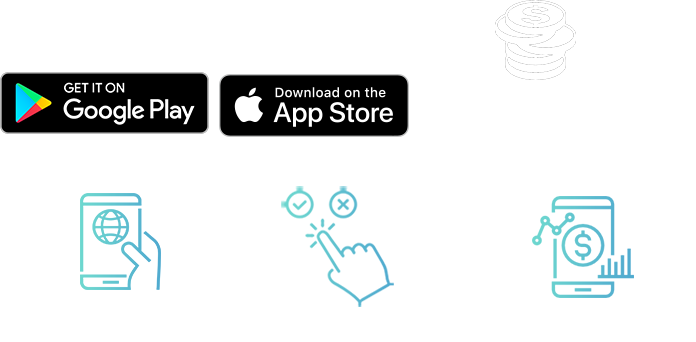
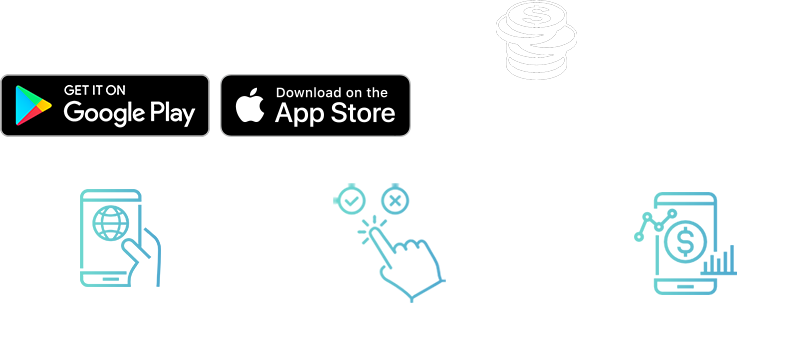
bull comm.png

diff --git a/10-work/210210-bullbull/html-bullbull/dist/css/comm.css b/10-work/210210-bullbull/html-bullbull/dist/css/comm.css
@@ -139,7 +139,8 @@ input[type=password] {
 .img_g {
   display: inline-block;
   overflow: hidden;
-  background: url(../../images/comm/img-comm.png) no-repeat;
+  background-image: url(../../images/comm.png);
+  background-repeat: no-repeat;
   vertical-align: top;
 }
 
@@ -226,14 +227,50 @@ body {
 .container {
   position: relative;
   max-width: 820px;
+  margin: 0 auto;
   padding: 76px 0 120px;
 }
 
+.wrap-tit h2 {
+  font-size: 1.625em;
+  color: #fff;
+}
+
+.wrap-tit h2::after {
+  content: '';
+  display: block;
+  width: 35px;
+  height: 3px;
+  margin: 58px 0 22px;
+  background: #fff;
+}
+
+.wrap-tit p {
+  color: #fff;
+}
+
 .btn-g {
+  display: inline-block;
   height: 63px;
+  padding: 8px 13px;
+  margin-top: 40px;
   background: #000;
   border: 1px solid #666;
-  border-radius: 20px;
+  border-radius: 8px;
+}
+
+.btn-g span {
+  width: 180px;
+  height: 43px;
+  text-indent: -9999px;
+}
+
+.btn-g.btn-google span {
+  background-position: -15px -82px;
+}
+
+.btn-g.btn-apple span {
+  background-position: -235px -83px;
 }
 
 .jumbotron-intro {
@@ -278,11 +315,10 @@ body {
 }
 
 .jumbotron-intro .col-left h1 {
-  display: block;
   width: 365px;
   height: 72px;
   margin: 27px 0 39px;
-  background: url(../../images/comm.png) 0 0 no-repeat;
+  background-position: 0 0;
   text-indent: -9999px;
 }
 
@@ -293,53 +329,5 @@ body {
 
 .sec-how {
   background: #323a47;
-}
-
-.sec-how h2 {
-  font-size: 1.625em;
-  color: #fff;
-}
-
-.sec-how ul {
-  display: -webkit-box;
-  display: -ms-flexbox;
-  display: flex;
-  -webkit-box-pack: justify;
-      -ms-flex-pack: justify;
-          justify-content: space-between;
-  margin: 67px -27px 0 -27px;
-}
-
-.sec-how ul li {
-  display: -webkit-box;
-  display: -ms-flexbox;
-  display: flex;
-  -webkit-box-align: end;
-      -ms-flex-align: end;
-          align-items: flex-end;
-  -webkit-box-pack: center;
-      -ms-flex-pack: center;
-          justify-content: center;
-  width: 228px;
-  height: 254px;
-  background-size: contain;
-  background-position: 0 0;
-  background-repeat: no-repeat;
-}
-
-.sec-how ul li:first-child {
-  background-image: url(../../images/img-feature1.png);
-}
-
-.sec-how ul li:nth-child(2) {
-  background-image: url(../../images/img-feature2.png);
-}
-
-.sec-how ul li:last-child {
-  background-image: url(../../images/img-feature3.png);
-}
-
-.sec-how ul a {
-  color: #fff;
 }
 /*# sourceMappingURL=comm.css.map */

diff --git a/10-work/210210-bullbull/html-bullbull/dist/scss/comm.scss b/10-work/210210-bullbull/html-bullbull/dist/scss/comm.scss
@@ -4,15 +4,44 @@
 /* layout */
 .container {
   position: relative;
-  max-width: 820px;
-  padding: 76px 0 120px;
+  max-width: 820px; // 최대 820px
+  margin: 0 auto; padding: 76px 0 120px;
 }
 
 // comm
+.wrap-tit {
+  h2 {
+    font-size: 1.625em; color: #fff;
+    &::after {
+      content: '';
+      display: block;
+      width: 35px; height: 3px; 
+      margin: 58px 0 22px;
+      background: $w;
+    }
+  }
+  p {color: $w;}
+}
+
 .btn-g {
-  height: 63px;
+  display: inline-block;
+  height: 63px; padding: 8px 13px; margin-top: 40px;
   background: $b;
-  border: 1px solid #666; border-radius: 20px;
+  border: 1px solid #666; border-radius: 8px;
+  span {
+    width: 180px; height: 43px;
+    text-indent: -9999px;
+  }
+  &.btn-google {
+    span {
+      background-position: -15px -82px;
+    }
+  }
+  &.btn-apple {
+    span {
+      background-position: -235px -83px;
+    }
+  }
 }
 
 
@@ -43,9 +72,8 @@
         color: #fff;
       }
       h1 {
-        display: block;
         width: 365px; height: 72px; margin: 27px 0 39px;
-        background: url(../../images/comm.png) 0 0 no-repeat;
+        background-position: 0 0;
         text-indent: -9999px;
       }
       p {
@@ -57,33 +85,9 @@
 
 // sec-how
 .sec-how {
-  background: $grey;
-  h2 {
-      font-size: 1.625em;
-      color: #fff;
-  }
-  ul {
-      display: flex; justify-content: space-between;
-      margin: 67px -27px 0 -27px;
-      li {
-          display: flex; align-items: flex-end;justify-content: center;
-          width: 228px; height: 254px;
-          background-size: contain;
-          background-position: 0 0;
-          background-repeat: no-repeat;
-          &:first-child {
-              background-image: url(../../images/img-feature1.png);
-          }
-          &:nth-child(2) {
-              background-image: url(../../images/img-feature2.png);
-          }
-          &:last-child {
-              background-image: url(../../images/img-feature3.png);
-          }
-      }
-      a {
-        color: #fff;
-      }
+  background: $charcoal-grey;
+  .lst-how {
+    
   }
 }
 

diff --git a/10-work/210210-bullbull/html-bullbull/index.html b/10-work/210210-bullbull/html-bullbull/index.html
@@ -33,12 +33,12 @@
         <div class="container">
           <div class="col-left">
             <em>Ready to become a Bullionaire?</em>
-            <h1>BULLBULL</h1>
+            <h1 class="img_g">BULLBULL</h1>
             <p>The world’s 1st stock quiz app with real money prizes.
               Play for free to win over $1,000,000!</p>
             <div class="btn-area clear_g">
-              <a href="#" class="btn-g btn-google"> <span>get it on Googles Play</span></a>
-              <a href="#" class="btn-g btn-apple">Download on the App Store</a>
+              <a href="#" class="btn-g btn-google"><span class="img_g">get it on Googles Play</span></a>
+              <a href="#" class="btn-g btn-apple"><span class="img_g">Download on the App Store</span></a>
             </div>
           </div>
           <div class="col-right">
@@ -51,15 +51,17 @@
         <!-- sec-how -->
         <section id="play" class="sec-how">
           <div class="container">
-            <h2>How To Play!</h2>
-            <p class="txt-bar" >In every contest, Bullbull will post five this-or-that quizzes about stocks traded on global exchange. <br>
-              Pick three or more correct answers to win! </p>
+            <div class="wrap-tit">
+              <h2>How To Play!</h2>
+              <p>In every contest, Bullbull will post five this-or-that quizzes about stocks traded on global exchange. <br>
+                Pick three or more correct answers to win! </p>
+            </div>       
   
-            <u>
-              <li>Choose a Contest</li>
-              <li>Make Your Pick</li>
-              <li>Watch and Win</li>
-            </u>
+            <ul class="lst-how">
+              <li class="img_g">Choose a Contest</li>
+              <li class="img_g">Make Your Pick</li>
+              <li class="img_g">Watch and Win</li>
+            </ul>
           </div>
         </section>
         <!-- //sec-how -->

diff --git a/10-work/210210-bullbull/html-bullbull/dist/scss/_reset.scss b/10-work/210210-bullbull/html-bullbull/dist/scss/_reset.scss
@@ -146,11 +146,11 @@ body, div, dl, dt, dd, ul, ol, li, h1, h2, h3, h4, h5, h6, pre, code, form, fiel
   }
   
   /* 이미지 스프라이트 */
-  
   .img_g {
     display: inline-block;
     overflow: hidden;
-    background: url(../../images/comm/img-comm.png) no-repeat;
+    background-image: url(../../images/comm.png);
+    background-repeat: no-repeat;
     vertical-align: top;
   }
   

diff --git a/10-work/210210-bullbull/html-bullbull/dist/scss/_variables.scss b/10-work/210210-bullbull/html-bullbull/dist/scss/_variables.scss
@@ -4,4 +4,4 @@ $tomato : #ff6347;
 $green : #008000;
 $gray : #eee;
 $wrapWidth : 1200px;
-$grey : #323a47;
+$charcoal-grey : #323a47;
